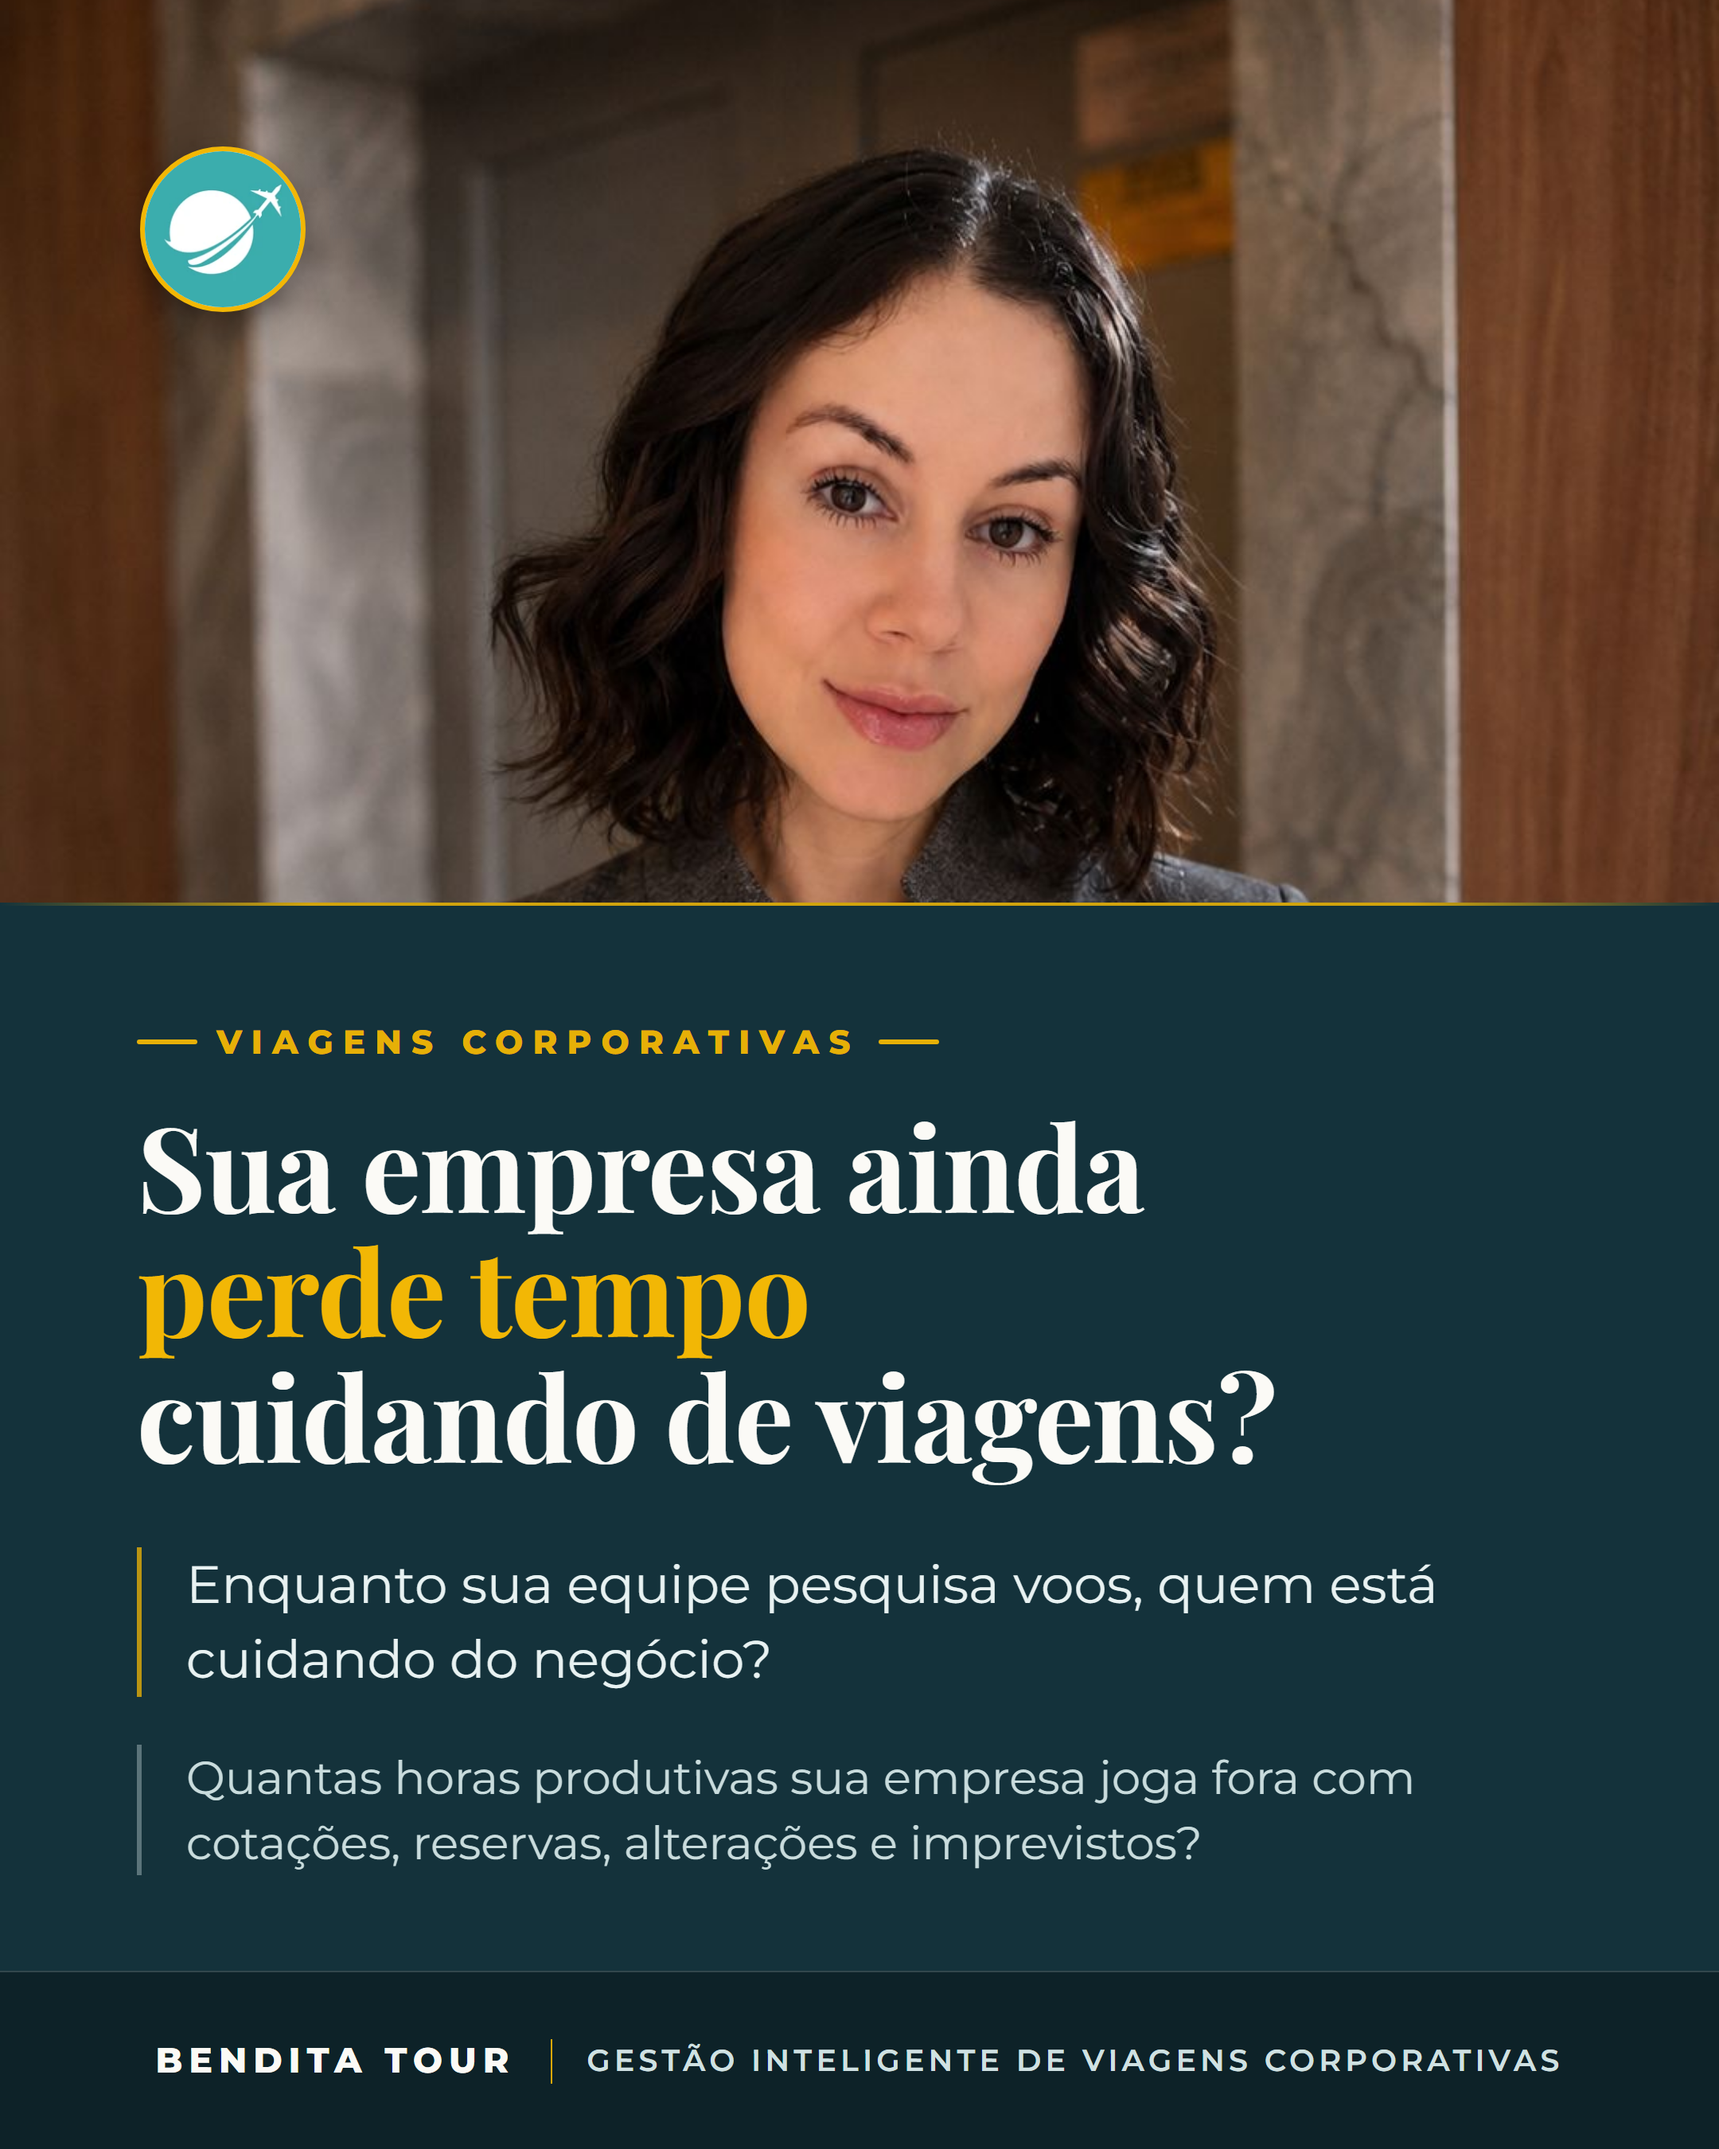
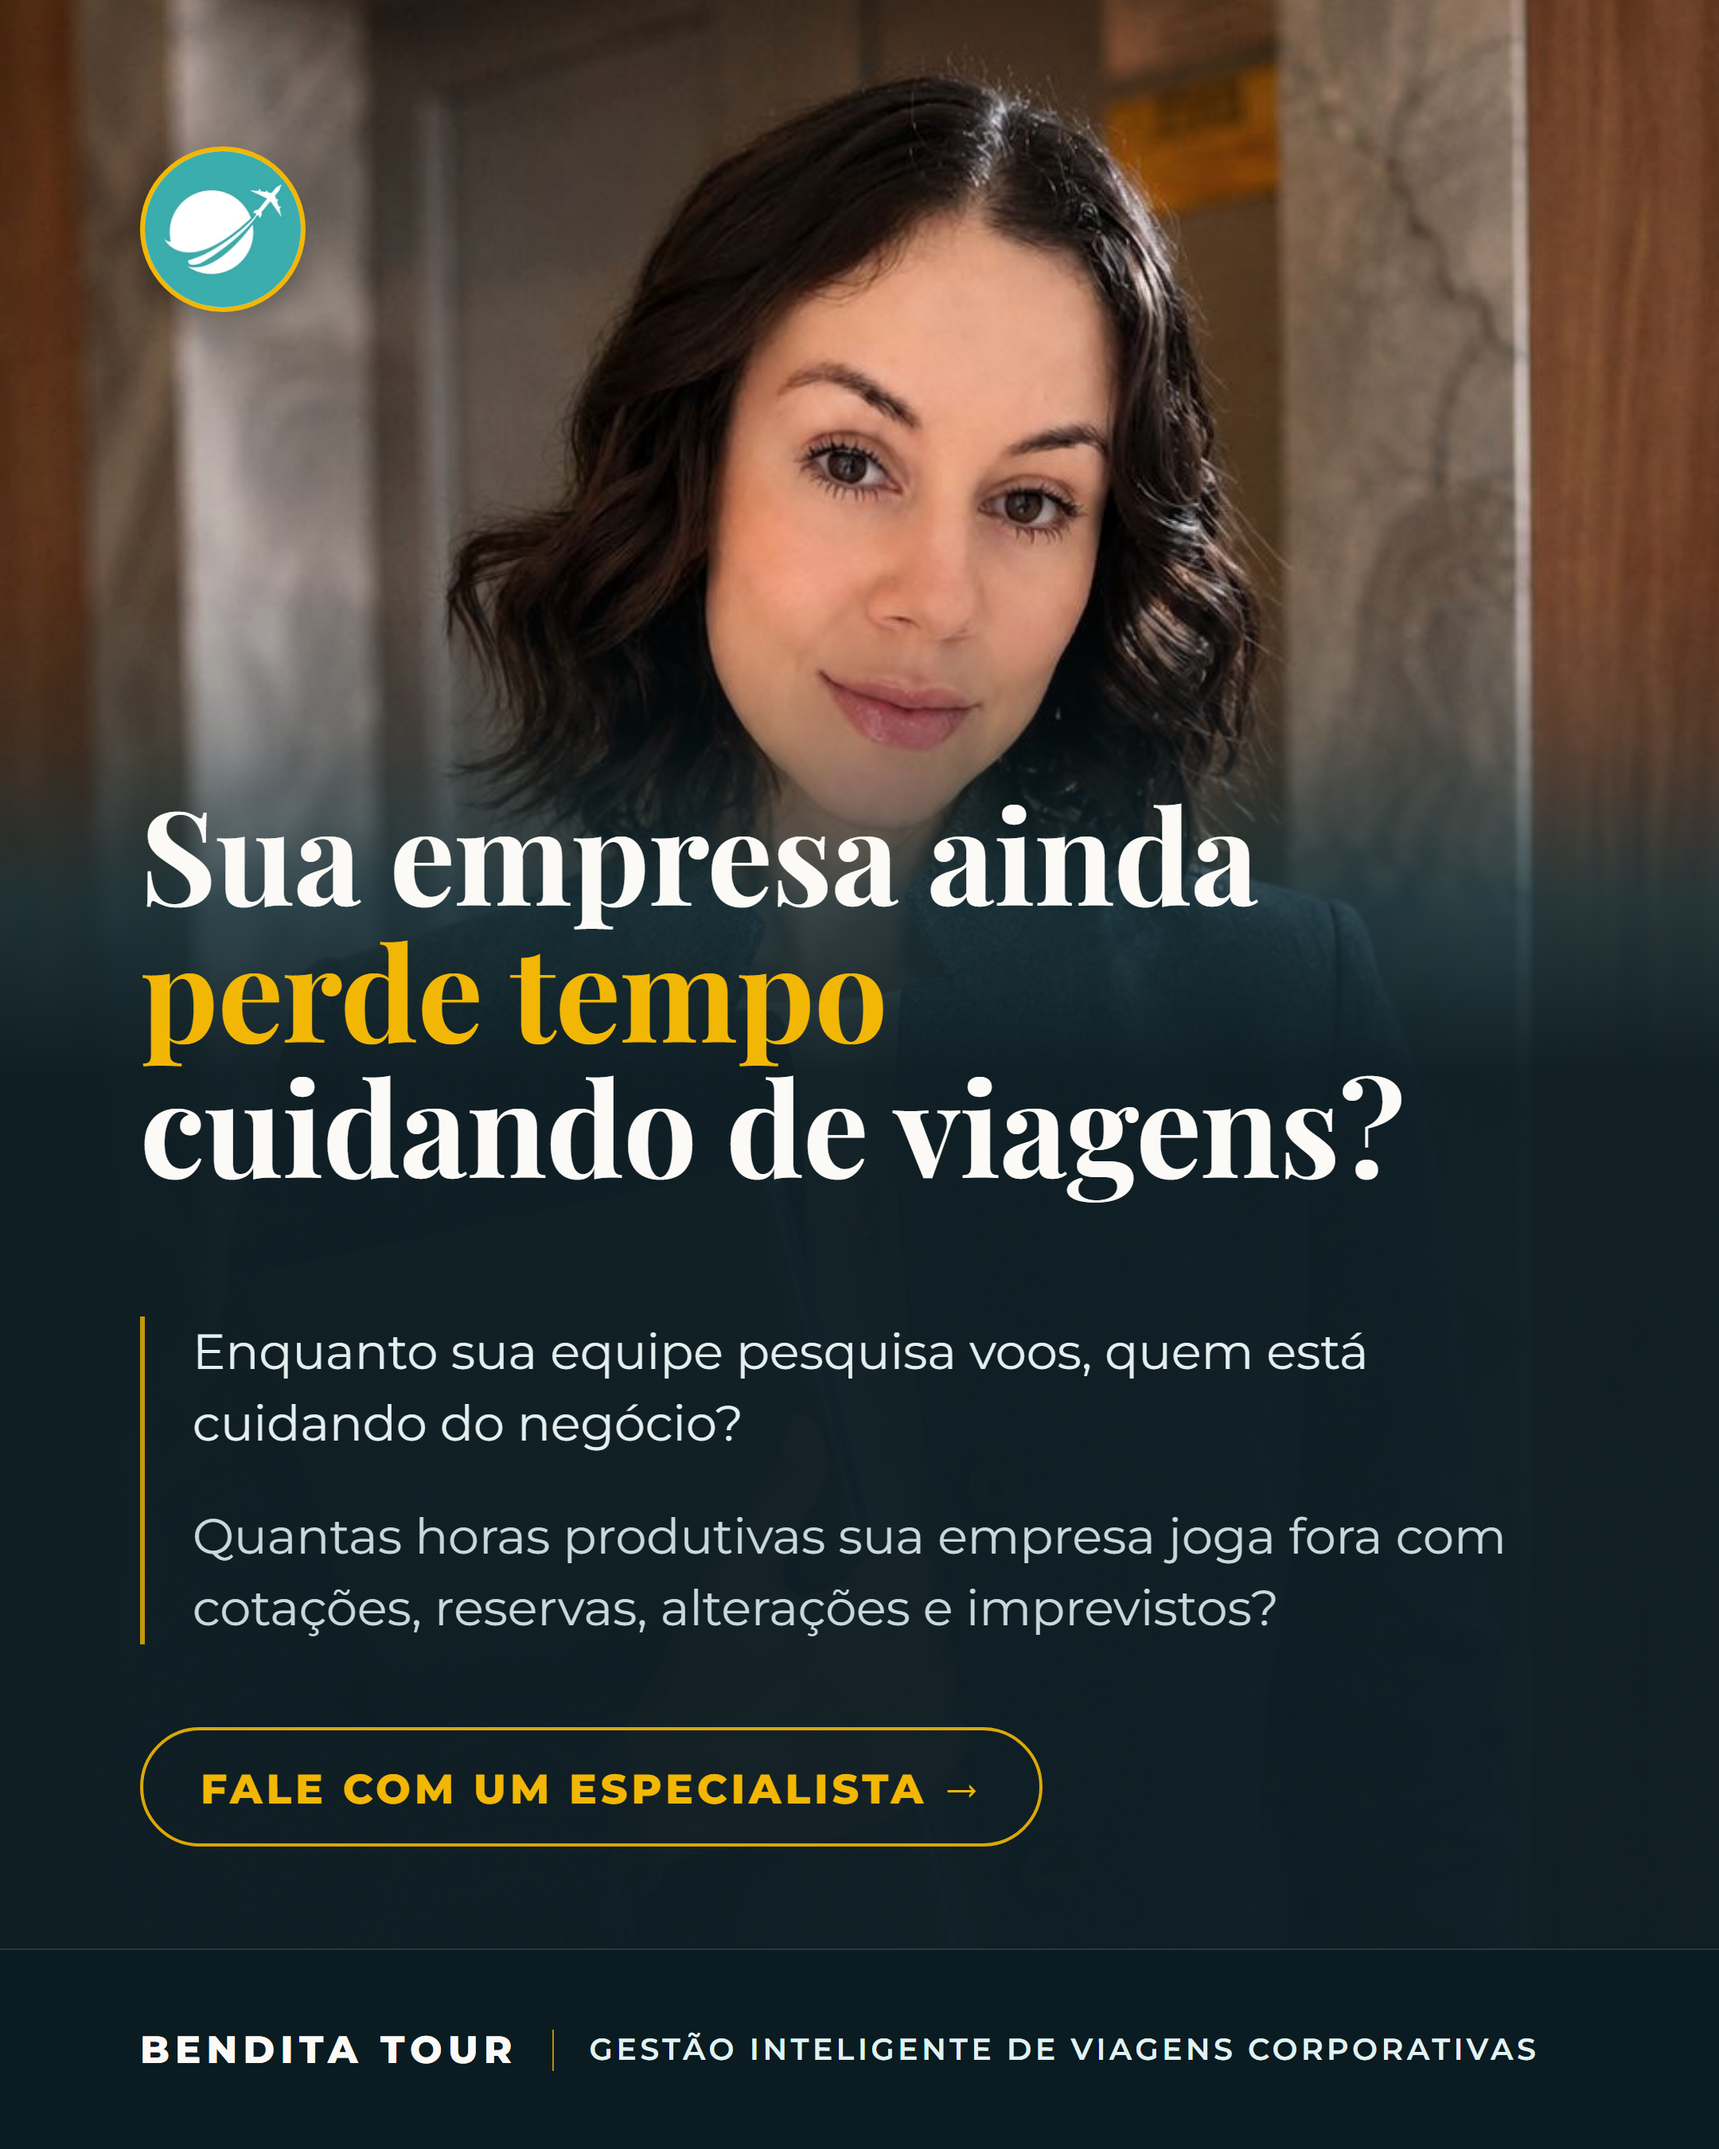
Atelie publicado

Changed region(s): [[0.0, 0.0, 1.0, 0.8711], [0.0, 0.9022, 1.0, 0.9644], [0.9306, 0.0, 0.9926, 0.1556]]

diff --git a/produto/posts/2026-09/viagens-corporativas-gestao/estilo.css b/produto/posts/2026-09/viagens-corporativas-gestao/estilo.css
@@ -87,40 +87,59 @@ html,body{background:#07151a;min-height:100vh;display:flex;justify-content:cente
   font-size:26px;font-weight:800;letter-spacing:2px;border-radius:999px;padding:12px 26px;backdrop-filter:blur(6px)}
 
 /* ============================================================
-   TRATAMENTO `editorial` — exclusivo desta peça (B-033).
-   Público executivo: foto em faixa no topo, painel escuro embaixo,
-   tipografia grande com respiro e assinatura discreta no rodapé.
-   Sem lista de check e sem botão verde: sobriedade vende aqui.
+   TRATAMENTO `editorial` — exclusivo desta peca (B-033).
+   Publico executivo. Revisado pelo conselho do atelie em 05/09/2026:
+   foto full-bleed (blazer e notebook entram como massa atras do texto,
+   e some o corte no pescoco), rodape alinhado a esquerda com o resto,
+   titulo maior que a mancha do corpo, duas frases com uma voz so,
+   ritmo vertical em escala e um CTA sobrio de contorno dourado.
    ============================================================ */
-.trat-editorial{background:var(--navy)}
-.trat-editorial .foto{height:42%;bottom:auto;object-position:center 12%}
-.trat-editorial .veu{background:
-  linear-gradient(0deg,var(--navy) 0%,var(--navy) 58%,rgba(20,50,59,.88) 40%,rgba(20,50,59,.30) 32%,rgba(20,50,59,0) 22%)}
-/* fio dourado marcando onde a foto vira painel */
-.trat-editorial::after{content:"";position:absolute;left:0;right:0;top:42%;height:2px;z-index:3;
-  background:linear-gradient(90deg,rgba(242,183,5,0) 0%,rgba(242,183,5,.85) 18%,rgba(242,183,5,.85) 82%,rgba(242,183,5,0) 100%)}
+.trat-editorial{--dobra:52%;background:var(--navy)}
 
-.trat-editorial .conteudo{padding:var(--pad-topo) 86px 172px;justify-content:flex-end}
-.trat-editorial .eyebrow{font-size:21px;letter-spacing:6px;color:var(--sun);opacity:.95}
-.trat-editorial .titulo{font-size:74px;line-height:1.06;margin-top:26px;font-weight:700;
+/* a foto ocupa a arte inteira; quem cria o "painel" e o veu */
+.trat-editorial .foto{height:100%;bottom:0;object-position:center 12%;
+  /* sobe e aproxima o retrato: sem isso o queixo dela encostava na primeira linha do titulo */
+  transform:scale(1.12);transform-origin:50% 100%;
+  filter:saturate(.94) brightness(1.07)}   /* cala a placa ambar do fundo, que competia com o dourado */
+
+/* paradas em ORDEM (a versao anterior tinha 58% antes de 40% — o navegador
+   grampeava tudo e o "degrade" era um corte seco por acidente) */
+.trat-editorial .veu{background:linear-gradient(0deg,
+  rgba(14,30,36,.97) 0%,
+  rgba(14,30,36,.97) 50%,
+  rgba(20,50,59,.80) 58%,
+  rgba(20,50,59,.22) 66%,
+  rgba(20,50,59,0)   73%)}
+
+/* sem fio de dobra: com a foto full-bleed ele virava um risco atravessando o titulo */
+
+.trat-editorial .conteudo{padding:var(--pad-topo) 88px 190px;justify-content:flex-end}
+
+/* titulo: o elemento mais largo da peca — headline nao pode ser mais estreita que o corpo */
+.trat-editorial .titulo{font-size:82px;line-height:1.04;margin-top:0;font-weight:700;
   letter-spacing:-.5px;text-shadow:none}
 .trat-editorial .titulo em{color:var(--sun)}
 
-.trat-editorial .frases{margin-top:44px;display:flex;flex-direction:column;gap:30px}
-.trat-editorial .frases p{margin:0;padding-left:28px;border-left:3px solid rgba(242,183,5,.75);
-  font-size:33px;font-weight:500;line-height:1.42;color:#E8F2F2}
-.trat-editorial .frases p + p{font-size:29px;font-weight:400;color:#C9DCDD;border-left-color:rgba(224,242,242,.35)}
+/* as duas frases sao UM bloco, com um unico fio: a diferenca entre elas e so de cor */
+.trat-editorial .frases{margin-top:78px;display:flex;flex-direction:column;gap:26px;
+  border-left:3px solid rgba(242,183,5,.8);padding-left:30px}
+.trat-editorial .frases p{margin:0;font-size:31px;font-weight:500;line-height:1.45;color:#E4EFEF}
+.trat-editorial .frases p + p{color:#C7DADB}
 
-/* rodapé assinado */
-.rodape{position:absolute;left:0;right:0;bottom:0;z-index:4;height:112px;
-  display:flex;align-items:center;justify-content:center;gap:22px;
-  background:rgba(7,21,26,.55);border-top:1px solid rgba(224,242,242,.18);
-  padding:0 40px;text-align:center;white-space:nowrap}
-.rodape .nome{font-family:var(--font-base);font-weight:800;font-size:22px;letter-spacing:4px;
-  text-transform:uppercase;color:var(--paper);white-space:nowrap}
-.rodape .barra{width:1px;height:28px;background:rgba(242,183,5,.9);flex:0 0 auto}
-.rodape .linha{font-size:19px;font-weight:600;letter-spacing:2.6px;text-transform:uppercase;
-  color:var(--teal-light);opacity:.92;white-space:nowrap}
+/* CTA executivo: contorno dourado. Verde e so do WhatsApp e quebraria o tom aqui */
+.trat-editorial .cta-linha{display:inline-block;margin-top:52px;align-self:flex-start;
+  border:2px solid rgba(242,183,5,.9);border-radius:999px;padding:18px 36px;
+  font-size:26px;font-weight:800;letter-spacing:2.4px;text-transform:uppercase;color:var(--sun)}
 
-/* a marca redonda fica sobre a foto, no alto */
+/* rodape assinado — alinhado a esquerda, na MESMA coluna do texto (88px) */
+.rodape{position:absolute;left:0;right:0;bottom:0;z-index:4;height:126px;
+  display:flex;align-items:center;justify-content:flex-start;gap:22px;
+  background:#0A1B21;border-top:1px solid rgba(224,242,242,.14);
+  padding:0 88px;white-space:nowrap}
+.rodape .nome{font-family:var(--font-base);font-weight:800;font-size:24px;letter-spacing:3.6px;
+  text-transform:uppercase;color:var(--paper)}
+.rodape .barra{width:1px;height:26px;background:rgba(242,183,5,.75);flex:0 0 auto}
+.rodape .linha{font-size:19px;font-weight:600;letter-spacing:2.2px;text-transform:uppercase;
+  color:var(--teal-light)}
+
 .trat-editorial .marca{width:104px;height:104px}

diff --git a/produto/posts/2026-09/viagens-corporativas-gestao/dados.js b/produto/posts/2026-09/viagens-corporativas-gestao/dados.js
@@ -15,7 +15,7 @@ window.POST = {
   ancora: "baixo",
 
   // --- TEXTO ---
-  eyebrow: "Viagens corporativas",
+  eyebrow: "",                   // o rodape ja assina "viagens corporativas" — repetir tirava 90px do titulo
   titulo: "Sua empresa ainda<br><em>perde tempo</em><br>cuidando de viagens?",
 
   frases: [
@@ -25,5 +25,8 @@ window.POST = {
 
   rodape: { marca: "Bendita Tour", linha: "Gestão inteligente de viagens corporativas" },
 
-  sub: "", itens: [], cta: "", marca: true, telas: []
+  // CTA proposto pelo conselho (a peca perguntava e nao dava saida) — a Josi pode vetar
+  cta: "Fale com um especialista", ctaTipo: "linha",
+
+  sub: "", itens: [], marca: true, telas: []
 };

diff --git a/produto/posts/2026-09/viagens-corporativas-gestao/motor.js b/produto/posts/2026-09/viagens-corporativas-gestao/motor.js
@@ -65,7 +65,9 @@
   if (T.cta) {
     bloco.push(T.ctaTipo === 'seta'
       ? `<div class="seta">${T.cta}</div>`
-      : `<span class="cta-wpp">${T.cta}</span>`);
+      : T.ctaTipo === 'linha'
+        ? `<span class="cta-linha">${T.cta} &rarr;</span>`   // contorno dourado: tom executivo, sem verde
+        : `<span class="cta-wpp">${T.cta}</span>`);
   }
 
   alvo.innerHTML = bloco.join('\n');
